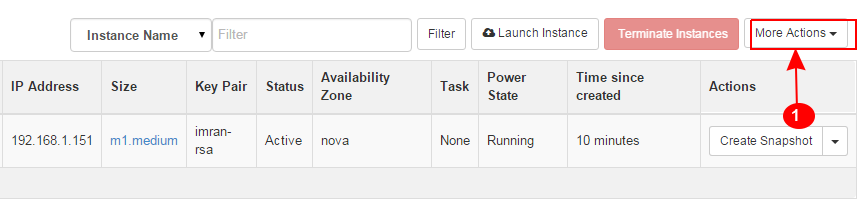
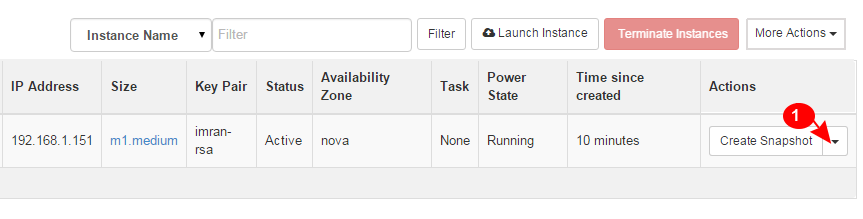
day1

Changed region(s): [[0.8436, 0.0822, 0.9942, 0.4658], [0.934, 0.5479, 0.9641, 0.6575]]

diff --git a/source/day1.rst b/source/day1.rst
@@ -24,7 +24,7 @@ After this course you will know the most important features provided by
 OpenStack, what kind of cloud features can it provide, how it can be
 used and above all, you will see that how easy it is to be used!
 
-You will feel yourself that OpenStack is really a power full framework.
+You will feel yourself that OpenStack is really a powerfull framework.
 This is not all about OpenStack!!!. OpenStack can also be used for:
 
 -  Creating and managing virtual machine instances using different operating systems (Linux, Windows.. )
@@ -154,10 +154,10 @@ As explained earlier, each network must have at least one subnet associated to i
 Next, you need to mention the subnet information.
 
 	c. Under Subnet tab, enter the subnet address in CIDR (Classless Inter Domain Routing) notation.
-	    The private IP addresses will be assigned to our VM instances from this subnet. In this example will use 192.168.1.0/24 . 
+	    The private IP addresses will be assigned to our VM instances from this subnet. In this example you will use 192.168.1.0/24 . 
 	     As this is an IPv4 address therefore we will set IP version as IPv4 and click Next
 
-A gateway IP is required so that all the instances on this network with use this IP to send for sending traffic that is destined towards outside world. In other words you can say this gateway IP is the IP address assigned on the router.
+A gateway IP is required so that all the instances on this network with use this IP for sending traffic that is destined towards outside world. In other words you can say this gateway IP is the IP address assigned on the router.
 |image6|
 
 
@@ -186,7 +186,7 @@ In case of Linux, you can also choose your favorite flavor. This could be CentOS
 
 You can also select the size of an instance that you want to create. It includes number of vCPUs, RAM and disk space.
 
-Now is the action time! Let’s go to Compute menu on the menu on the left and then select 'Launch Instances'.
+Now is the action time! Let’s go to Compute menu on the left and then select 'Launch Instances'.
 
 |image8|
 
@@ -219,7 +219,7 @@ We need to add key pairs in order to be able to login to our new instance after 
 |image10|
 	
 	c. A new popup window will appear. Enter a name for the key and paste the contents of the public key. You can create the new key according to the instructions on the right.
-	   You can import your exiting public keys from your personal machine as well. If you have a linux PC then you can use the following command:
+	   You can import your existing public keys from your personal machine as well. If you have a linux PC then you can use the following command:
 
 		ssh-keygen -t rsa  <YourKeyName>    # ( Replace <YourKeyName> with your new key name)
 
@@ -255,18 +255,28 @@ Click on 'Create Router' on the right as shown in the image below:
 
 |image16|
 
+Set a meaningful router name
+Set the 'Admin state' to up
+Select the external public network
+Click on 'Create Router'
 Once the router is created, a message like below will be displayed:
 
 |image17|
 
-Once the router is created, we need to add its interfaces. To acheive this we need to follow below steps:
+This newly created needs a gateway IP so that it can forwar all the default traffic to it.
+ 
+ Follow below steps to acheive this:
 		a. Goto the router details page on the newly created router and click on 'Set Gateway'
 |image18|
 	
 		b. Select the external network and click 'Set Gateway'
 |image19|
 
-Now we need an interface to connect with the subnet that we created earlier. To do this, click on 'Add Interface' option under 'Interfaces' tab on router details page. This is shown in the image below:
+So far the router is created and gateway has been set but it is not connected to your private network.
+
+Hence you need to add an interface to the router and connect that interface to the private network.
+
+To do this, click on 'Add Interface' option under 'Interfaces' tab on router details page. This is shown in the image below:
 
 |image20|
 
@@ -280,13 +290,16 @@ Now to confirm the interface addition, we can view it under network topology. To
 
 5. Assign a floating IP Address
 
-A floating IP Address is required to access the VM instance remotely using pubic Ineternet. Floating IPs are ussually public IP Addresses which are routable using Internet.
+A floating IP Address is required to access the VM instance remotely using pubic Internet. Floating IPs are ussually public IP Addresses which are routable using Internet.
 To assign a flaoting IP, we need to follow below steps:
 	a. Under 'Compute', go to 'Instances' and select the instance.
 
 |image23|
 
-After selecting the instance, goto 'More Actions'
+After selecting the instance, select the drop down menu under 'Actions' column.
+
+From this drop down menu, select 'Associate floating IP' option.
+
 
 |image24|
 
